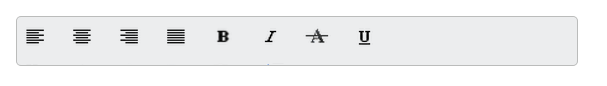
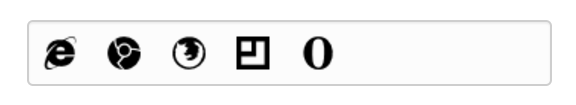
Updated UG documentation for local databinding in Toolbar.

Changed region(s): [[0.0, 0.186, 0.9688, 0.814], [0.1875, 0.3256, 0.4688, 0.6744], [0.5, 0.3256, 0.625, 0.6744]]

diff --git a/js/Toolbar/Data-binding.md b/js/Toolbar/Data-binding.md
@@ -85,63 +85,90 @@ And also you can add image, image styles, sprite CSS class, query and HTML attri
 {% highlight html %}
 
     <div class="cols-sample-area">
-        <div id="toolbar"></div>
+        <div id="toolbarJson"></div>
     </div>
     
+{% endhighlight %}
+
+{% highlight javascript %}
+
+    $(function () {
+        BrowserItems = [{
+            empid: "1",
+            spriteCss: "Browsers ieb",
+            title: "Internet Explorer",
+
+        }, {
+            empid: "2",
+            spriteCss: "Browsers chromeb",
+            title: "Chrome",
+        }, {
+            empid: "3",
+            spriteCss: "Browsers firefoxb",
+            title: "Firefox",
+
+        }, {
+            empid: "4",
+            spriteCss: "Browsers bittyb",
+            title: "Bitty",
+
+        }, {
+            empid: "5",
+            spriteCss: "Browsers operab",
+            title: "Opera",
+
+        }
+        ];
+        $("#toolbarJson").ejToolbar({
+            dataSource: BrowserItems,
+            fields: { id: "empid", spriteCssClass: "spriteCss", tooltipText:"title" },
+            orientation: ej.Orientation.Horizontal,
+            width: "100%"
+        });
+    });
+
 {% endhighlight %}
 
 {% highlight css %}
 
 <style type="text/css" class="cssStyles">
-    .darktheme .cols-sample-area .e-tooltxt .ToolbarItems {
-        background-image: url('../images/toolbar/ui-icons-metro.png');
+    .darktheme .cols-sample-area .e-tooltxt .Browsers {
+        background-image: url('../content/images/toolbar/browserd.png');
     }
 
-    .cols-sample-area .e-tooltxt .ToolbarItems {
+    .cols-sample-area .e-tooltxt .Browsers {
         display: block;
-        background-image: url('../images/toolbar/ui-icons-dark.png');
-        height: 22px;
-        width: 22px;
+        background-image: url('../content/images/toolbar/browserl.png');
+        height: 32px;
+        width: 32px;
+        background-repeat: no-repeat;
     }
 
-    .e-tooltxt:hover .ToolbarItems, .darktheme .cols-sample-area .e-tooltxt:hover .ToolbarItems {
-        background-image: url('../images/toolbar/ui-icons-light.png');
+    .e-tooltxt:hover .Browsers, .darktheme .cols-sample-area .e-tooltxt:hover .Browsers {
+        background-image: url('../content/images/toolbar/browserh.png');
     }
 
-    .ToolbarItems.LeftAlign_tool {
-        background-position: -26px -39px;
+    .Browsers.ieb {
+        background-position: -84px 0px;
     }
 
-    .ToolbarItems.CenterAlign_tool {
-        background-position: -55px -39px;
+    .Browsers.chromeb {
+        background-position: -42px 0px;
     }
 
-    .ToolbarItems.RightAlign_tool {
-        background-position: -89px -39px;
+    .Browsers.firefoxb {
+        background-position: 0px 0px;
     }
 
-    .ToolbarItems.Justify_tool {
-        background-position: -123px -39px;
+    .Browsers.bittyb {
+        background-position: -126px 0px;
     }
 
-    .ToolbarItems.Bold_tool {
-        background-position: -159px -39px;
+    .Browsers.operab {
+        background-position: -168px 0px;
     }
-
-    .ToolbarItems.Italic_tool {
-        background-position: -196px -39px;
-    }
-
-    .ToolbarItems.StrikeThrough_tool {
-        background-position: -55px -70px;
-    }
-
-    .ToolbarItems.Underline_tool {
-        background-position: -23px -68px;
-    }
-
-    .html {
-        background-color: yellowgreen;
+    .material .frame{
+        width: 360px;
     }
 </style>
 
